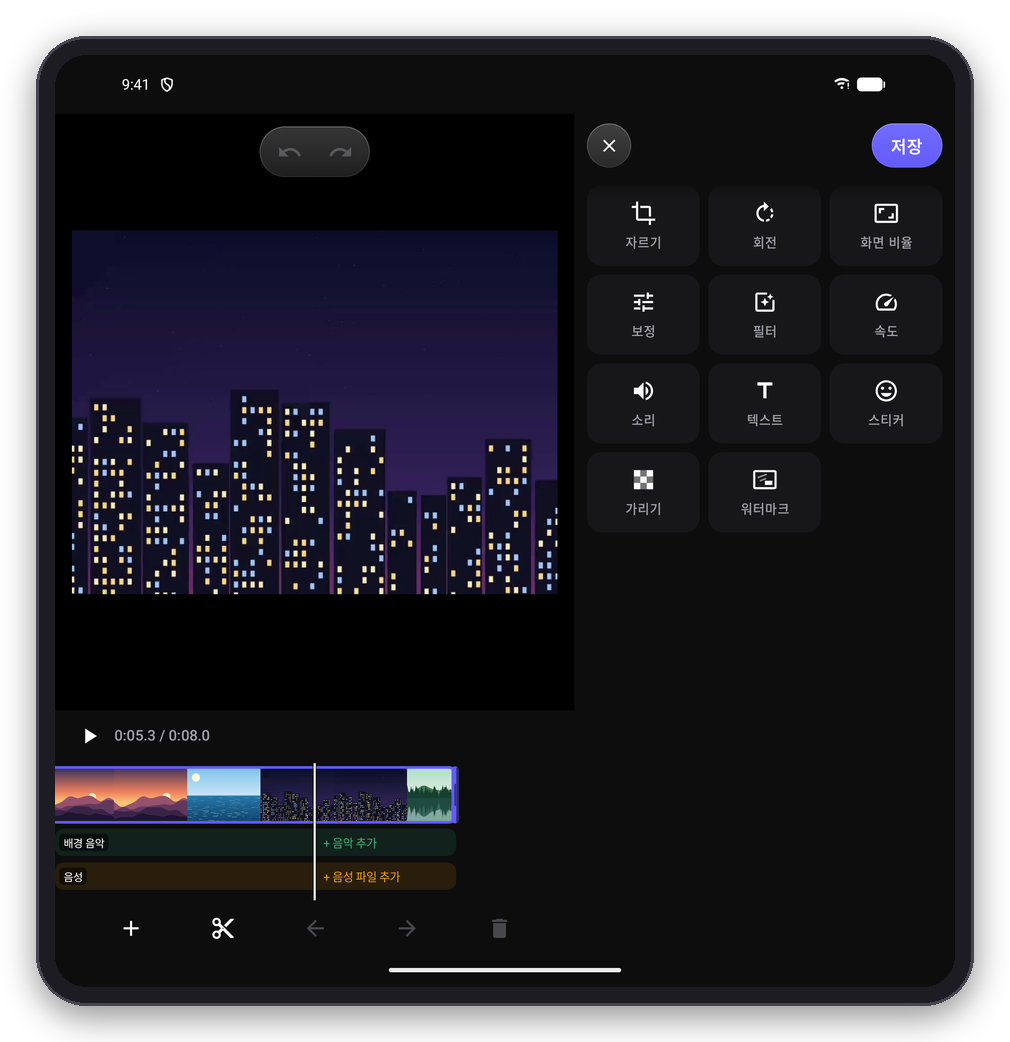
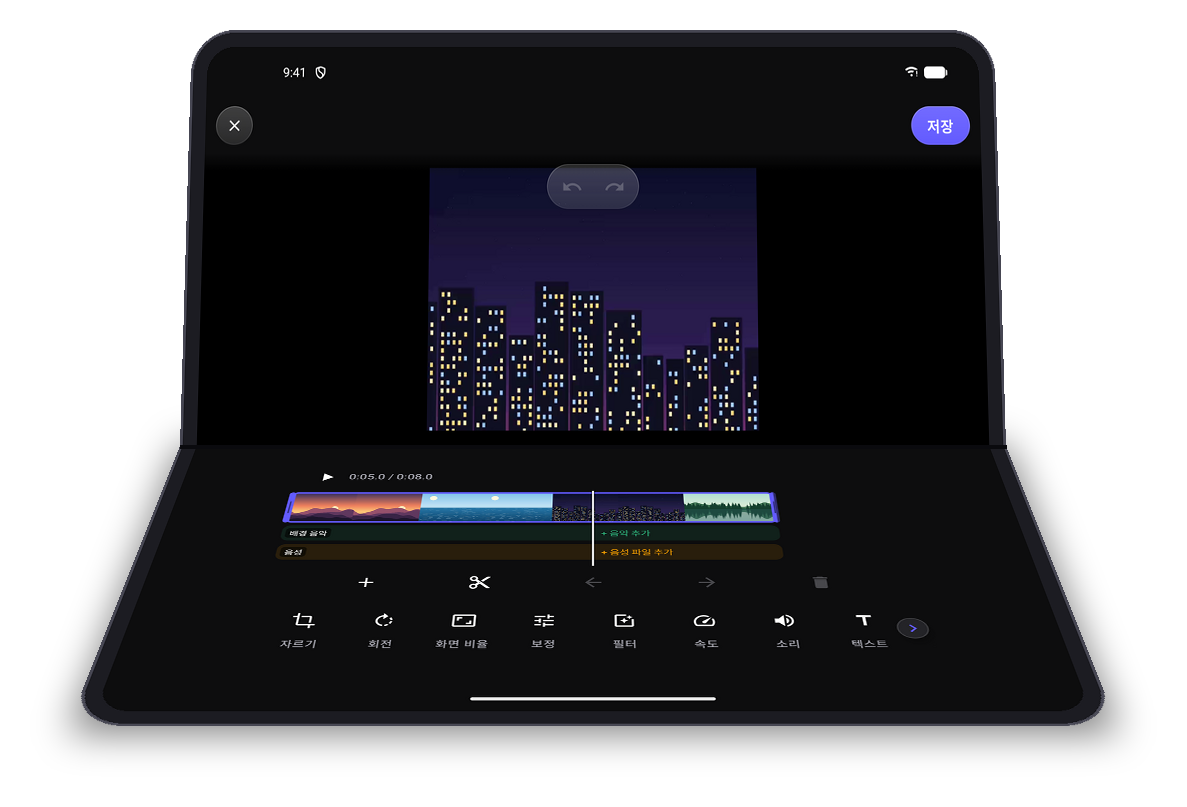
docs: 폴드·태블릿 영상 편집 이미지를 반쯤 접은 화면으로 교체

diff --git a/README.md b/README.md
@@ -73,7 +73,7 @@
 <table>
   <tr>
     <td align="center" width="33%"><img src="docs/images/screen-fold-photo.png" width="280" alt="펼친 폴드에서 사진 편집"><br><b>사진 편집</b><br>도구를 옆 패널에</td>
-    <td align="center" width="33%"><img src="docs/images/screen-fold-video.png" width="280" alt="펼친 폴드에서 영상 편집"><br><b>영상 편집</b><br>미리보기·타임라인·도구를 한 화면에</td>
+    <td align="center" width="33%"><img src="docs/images/screen-fold-video.png" width="280" alt="반쯤 접은 폴드에서 영상 편집"><br><b>영상 편집(반쯤 접기)</b><br>위에는 영상, 아래에는 타임라인·도구</td>
     <td align="center" width="33%"><img src="docs/images/screen-fold-gallery.png" width="280" alt="펼친 폴드에서 갤러리"><br><b>갤러리</b><br>폭에 맞춰 늘어나는 격자</td>
   </tr>
 </table>
